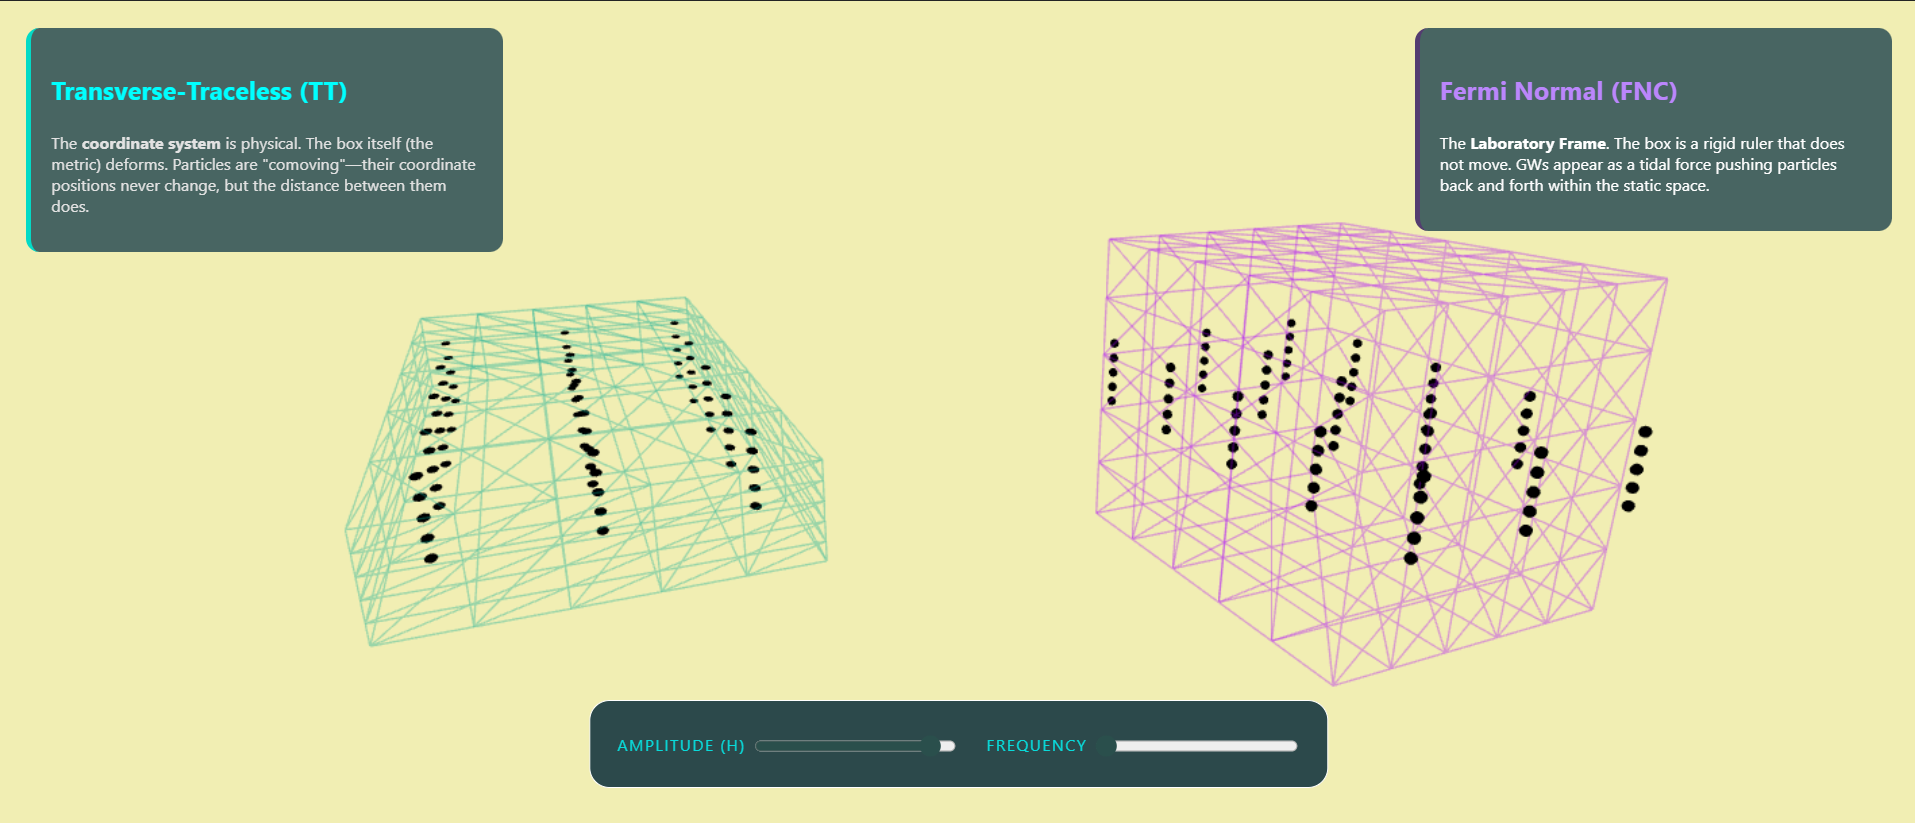
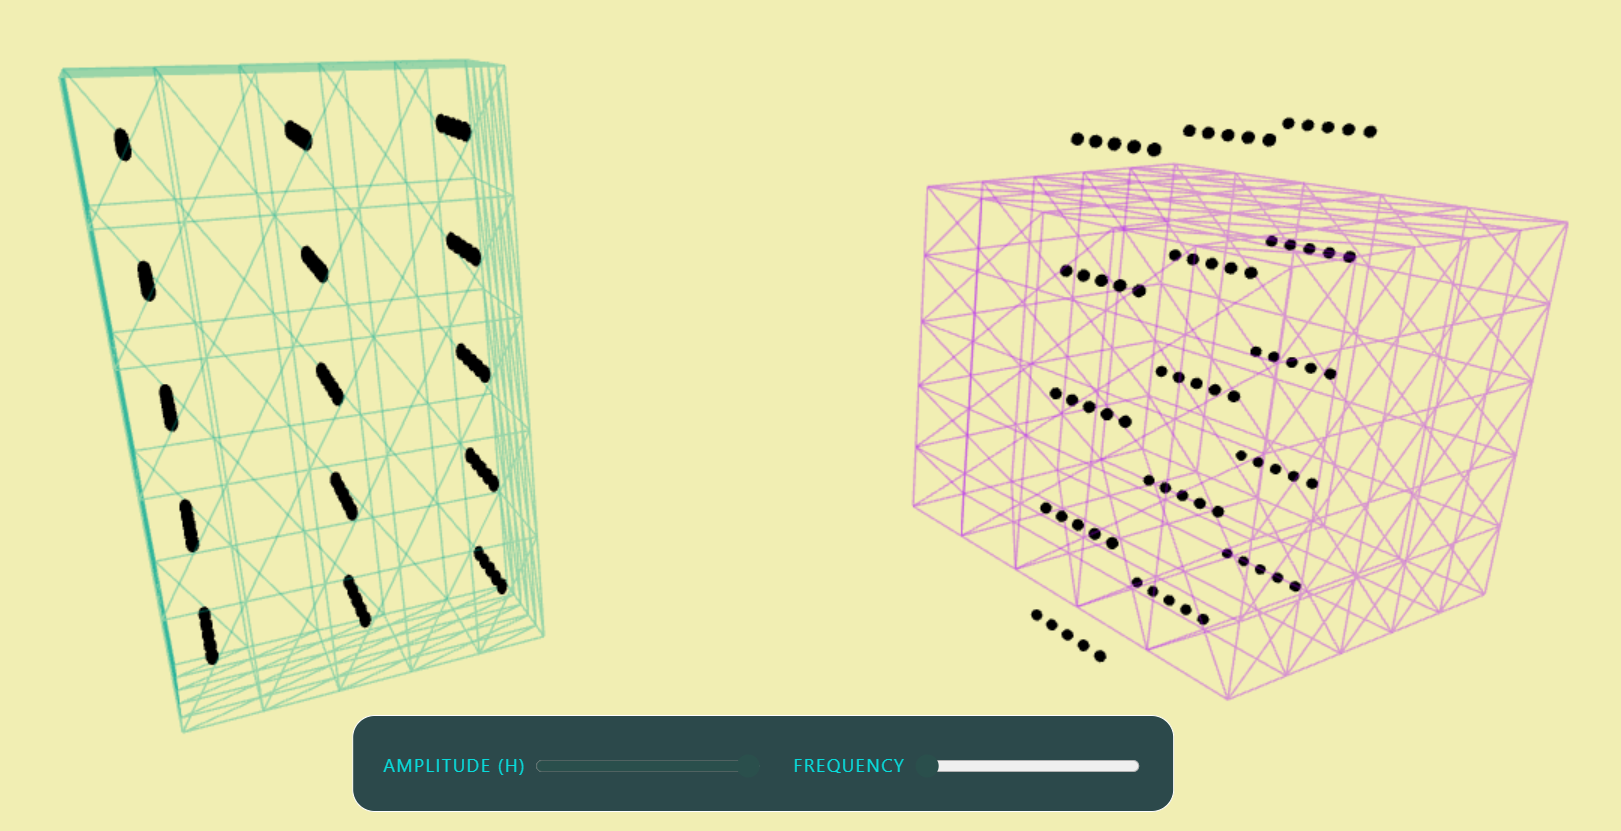
changes on the manetic field intrinsic visualization with three.js

diff --git a/Thesis_Plot_Analysis/Thesis_Ready/TT_FNCgauge_Comparisons_Super(WebSHowcase).html b/Thesis_Plot_Analysis/Thesis_Ready/TT_FNCgauge_Comparisons_Super(WebSHowcase).html
@@ -22,15 +22,7 @@
 </head>
 <body>
 
-    <div class="label-card" style="left: 20px;">
-        <h3>Transverse-Traceless (TT)</h3>
-        <p style="color:#e2e2e2; font-size:12px;">The <b>coordinate system</b> is physical. The box itself (the metric) deforms. Particles are "comoving"—their coordinate positions never change, but the distance between them does.</p>
-    </div>
-
-    <div class="label-card" style="right: 20px; border-left-color: #543c70;">
-        <h3 style="color:#bb86fc;">Fermi Normal (FNC)</h3>
-        <p style="color:#ffffff; font-size:12px;">The <b>Laboratory Frame</b>. The box is a rigid ruler that does not move. GWs appear as a tidal force pushing particles back and forth within the static space.</p>
-    </div>
+    
 
     <div id="ui">
         <div><label>Amplitude (h)</label> <input type="range" id="amp" min="0" max="0.8" step="0.01" value="0.4"></div>